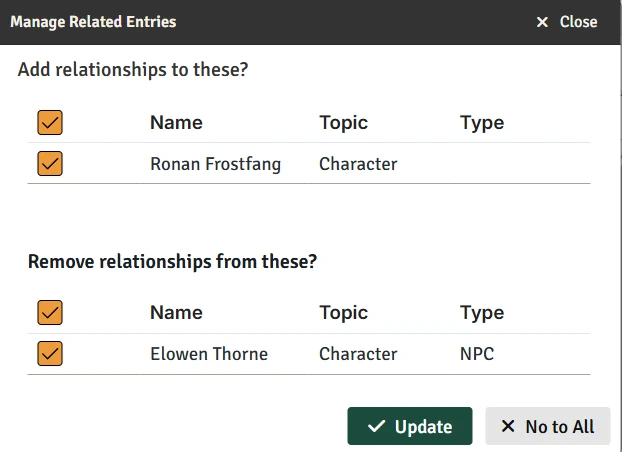
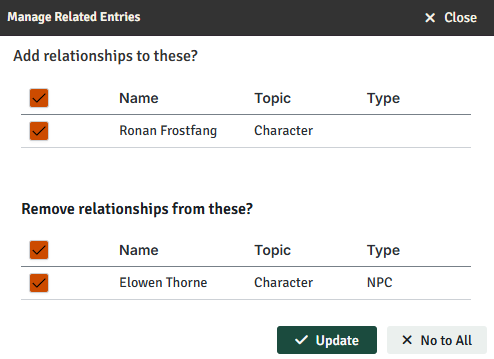
dialog bug fix

diff --git a/src/components/ContentTab/EntryContent/EntryContent.vue b/src/components/ContentTab/EntryContent/EntryContent.vue
@@ -190,7 +190,9 @@
                     :initial-content="currentEntry?.roleplayingNotes || ''"
                     :style="{ 'height': '180px', 'margin-bottom': '.375rem'}"
                     :current-entity-uuid="currentEntry?.uuid"
+                    :enable-related-entries-tracking="ModuleSettings.get(SettingKey.autoRelationships)"
                     @editor-saved="onRolePlayingNotesSaved"
+                    @related-entries-changed="onRelatedEntriesChanged"
                   />
               </div>
 

diff --git a/src/components/Dialog.vue b/src/components/Dialog.vue
@@ -14,7 +14,7 @@
       <a 
         class="header-button control close"
         data-testid="dialog-close-button"
-        @click="() => { show = false; emit('cancel'); }"
+        @click="() => { show = false; emit('update:modelValue', false); emit('cancel'); }"
       >
         <i class="fas fa-times"></i>
         <span class="close-text">{{ localize('labels.close') }}</span>
